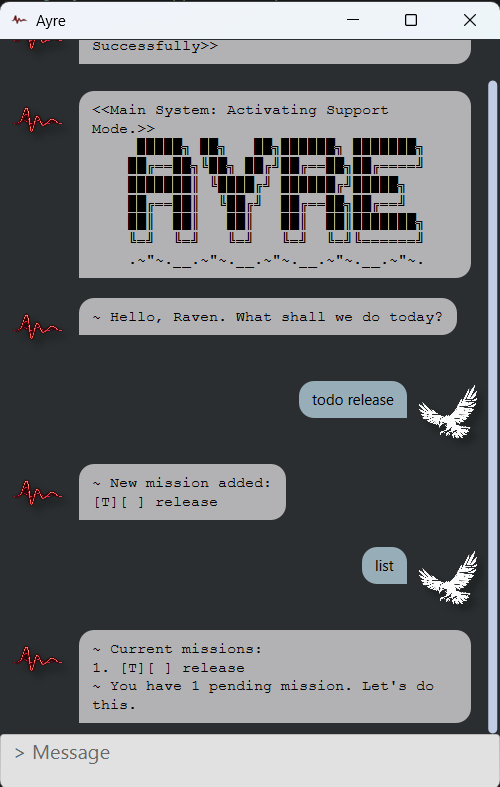
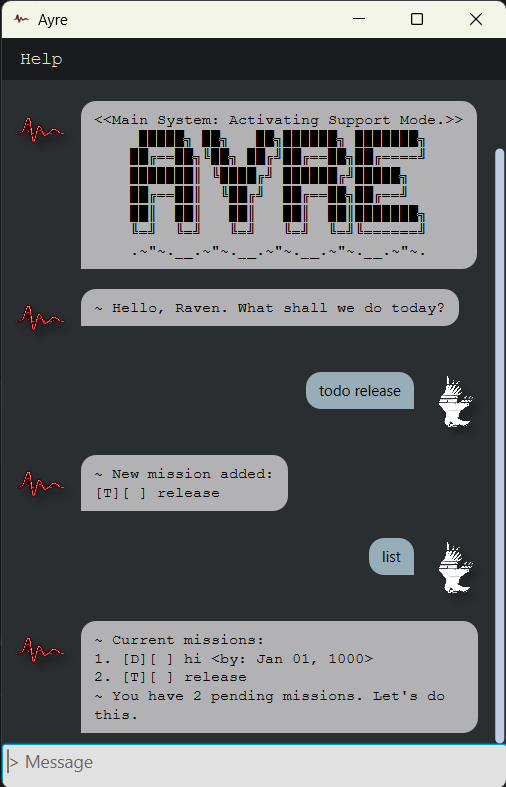
Add user guide

diff --git a/docs/README.md b/docs/README.md
@@ -1,30 +1,200 @@
-# Duke User Guide
+# Ayre User Guide
 
-// Update the title above to match the actual product name
+<img src="Ui.png" alt="Ayre user interface" width="400">
 
-// Product screenshot goes here
+## Table of contents
 
-// Product intro goes here
+- [Quick start](#quick-start)
+- [Reading the task list](#reading-the-task-list)
+- [Features](#features)
+  - [Notes about command format](#notes-about-command-format)
+  - [Accessing the help guide](#accessing-the-help-guide)
+  - [Adding a todo task: `todo`](#adding-a-todo-task-todo)
+  - [Adding a deadline: `deadline`](#adding-a-deadline-deadline)
+  - [Adding an event: `event`](#adding-an-event-event)
+  - [Listing all tasks: `list`](#listing-all-tasks-list)
+  - [Marking a task as done: `mark`](#marking-a-task-as-done-mark)
+  - [Marking a task as not done: `unmark`](#marking-a-task-as-not-done-unmark)
+  - [Deleting a task: `delete`](#deleting-a-task-delete)
+  - [Finding tasks: `find`](#finding-tasks-find)
+  - [Exiting Ayre: `bye`](#exiting-ayre-bye)
+- [Accessing the save file](#accessing-the-save-file)
+  - [Editing the save file](#editing-the-save-file)
+- [Command summary](#command-summary)
 
-## Adding deadlines
+## Quick start
 
-// Describe the action and its outcome.
+1. Ensure that Java 25 or later is installed on your computer.
+2. Download `Ayre.jar` from the [latest release](https://github.com/zRayhhh/ip/releases/tag/v0.2-beta).
+3. Copy `Ayre.jar` into a folder of your choice.
+4. Launch Ayre by double-clicking the JAR file, or run `java -jar "Ayre.jar"` from a terminal.
+5. Type commands into the message box and press **Enter**.
 
-// Give examples of usage
+To try a simple use case, add a task, view it, and mark it as complete:
 
-Example: `keyword (optional arguments)`
-
-// A description of the expected outcome goes here
-
+```text
+todo Read the user guide
+list
+mark 1
 ```
-expected output
+
+Ayre saves your tasks automatically and restores them the next time you launch the application.
+
+## Reading the task list
+
+Tasks use this format:
+
+```text
+index. [type][status] description [date information]
 ```
 
-## Feature ABC
+`[T]`, `[D]`, and `[E]` identify todo, deadline, and event tasks respectively. `[ ]` means pending and `[+]` means complete. The index is the task index used by `mark`, `unmark`, and `delete`.
 
-// Feature details
+For example:
 
+```text
+1. [T][ ] Read the user guide
+2. [D][+] Submit assignment <by: Sep 20, 2026>
+3. [E][ ] Project meeting <from: Sep 18, 2026 to: Sep 18, 2026>
+```
 
-## Feature XYZ
+In the example, task 2 is a completed deadline, while task 3 is a pending event. Enter dates in ISO local date format `yyyy-mm-dd`, such as `2026-09-20`.
 
-// Feature details
+## Features
+
+> **Command format notes**
+> - Words in `UPPER_CASE` are placeholders that you replace with your own values. For example, replace `DESCRIPTION` with `Read the user guide`.
+> - A `DESCRIPTION` may contain spaces.
+> - Command formats should be followed strictly. Whitespace immediately before or after command flags like `todo` or `/by` will be ignored.
+> - `INDEX` refers to the task index as shown by `list`. It is an index starting from 1.
+> - `DATE`, `START_DATE`, and `END_DATE` must use the `yyyy-mm-dd` format.
+> - All command flags have their equivalent shorthands that can be used interchangeably.
+
+### Accessing the user guide within the app
+
+From the Ayre window, open the **Help** menu and select **User Guide** to open the in-app help guide.
+
+### Adding a todo task: `todo`
+
+Adds a task without a date.
+
+Format: `todo DESCRIPTION`
+
+Shorthand: `t DESCRIPTION`
+
+Example: `todo Read the user guide`
+
+### Adding a deadline: `deadline`
+
+Adds a task with a due date. The date must be possible.
+
+Format: `deadline DESCRIPTION /by DATE`
+
+Shorthand: `d DESCRIPTION /b DATE`
+
+Example: `deadline Submit assignment /by 2026-09-20`
+
+### Adding an event: `event`
+
+Adds a task with a start date and an end date. The dates must be possible, and END_DATE must be later than or equal to START_DATE.
+
+Format: `event DESCRIPTION /from START_DATE /to END_DATE`
+
+Shorthand: `e DESCRIPTION /f START_DATE /t END_DATE`
+
+Example: `event Project meeting /from 2026-09-18 /to 2026-09-18`
+
+### Listing all tasks: `list`
+
+Shows all tasks in the task list.
+
+Format: `list`
+
+Shorthand: `l`
+
+### Marking a task as done: `mark`
+
+Marks the task at the specified index in the list as complete. Re-marking a completed task does nothing.
+
+Format: `mark INDEX`
+
+Shorthand: `m INDEX`
+
+Example: `mark 1`
+
+### Marking a task as not done: `unmark`
+
+Marks the task at the specified index in the list as pending. Unmarking a pending task does nothing.
+
+Format: `unmark INDEX`
+
+Shorthand: `u INDEX`
+
+Example: `unmark 1`
+
+### Deleting a task: `delete`
+
+Deletes the task at the specified index in the list. This may change the index index of other tasks in the list.
+
+Format: `delete INDEX`
+
+Shorthand: `rm INDEX`
+
+Example: `delete 2`
+
+### Finding tasks: `find`
+
+Finds and lists tasks whose descriptions contain the specified keyword. The search is case-insensitive.
+
+Format: `find KEYWORD`
+
+Shorthand: `f KEYWORD`
+
+Example: `find assignment`
+
+### Exiting Ayre: `bye`
+
+Exits the application.
+
+Format: `bye`
+
+Shorthand: `b`
+
+## Accessing the save file
+
+Ayre saves task data automatically in `data/ayre.txt`, relative to the folder where Ayre is launched. Each task occupies one line with fields separated by whitespace:
+
+```text
+TASK_TYPE STATUS DESCRIPTION [DATE] [DATE]
+```
+
+- `TASK_TYPE` is `T` for a todo, `D` for a deadline, or `E` for an event.
+- `STATUS` is `0` for pending or `1` for complete.
+- `DESCRIPTION` is the task description.
+- Dates use `yyyy-mm-dd` and are included according to the task type: todo records have no dates, deadlines have one date, and events have two dates.
+
+  | Task type | Example Save-file format                      |
+  | --- |-----------------------------------------------|
+  | Todo | `T 0 This is a todo`                          |
+  | Deadline | `D 1 This is a completed deadline 2006-06-06` |
+  | Event | `E 0 This is an event 2005-05-05 2006-06-06`  |
+
+### Editing the save file
+
+Any edits made while Ayre is open will not be saved. 
+ 
+Close Ayre first, then open `data/ayre.txt` in a text editor to make your edits. Follow the given format (including whitespace) strictly, and ensure that the dates are valid. Malformed records are removed when launching Ayre.
+
+## Command summary
+
+| Command                                           | Shorthand                                 | Description                                        |
+|---------------------------------------------------|-------------------------------------------|----------------------------------------------------|
+| `todo DESCRIPTION`                                | `t DESCRIPTION`                           | Add a todo task.                                   |
+| `deadline DESCRIPTION /by DATE`                   | `d DESCRIPTION /b DATE`                   | Add a task with a deadline.                        |
+| `event DESCRIPTION /from START_DATE /to END_DATE` | `e DESCRIPTION /f START_DATE /t END_DATE` | Add a task with a start and end date.              |
+| `list`                                            | `l`                                       | Show all tasks.                                    |
+| `mark INDEX`                                    | `m INDEX`                               | Mark a task as done.                               |
+| `unmark INDEX`                                  | `u INDEX`                               | Mark a task as not done.                           |
+| `delete INDEX`                                  | `rm INDEX`                              | Delete a task.                                     |
+| `find <keyword>`                                  | `f <keyword>`                             | Find tasks which descriptions contain the keyword. |
+| `bye`                                             | `b`                                       | Exit Ayre.                                         |
